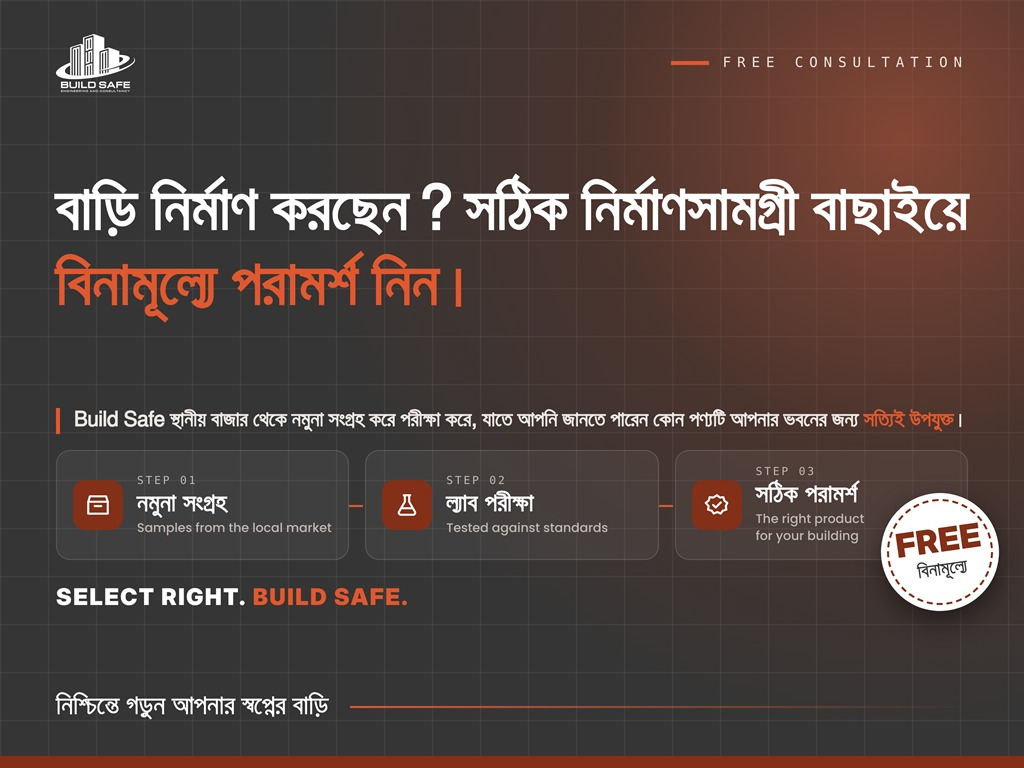
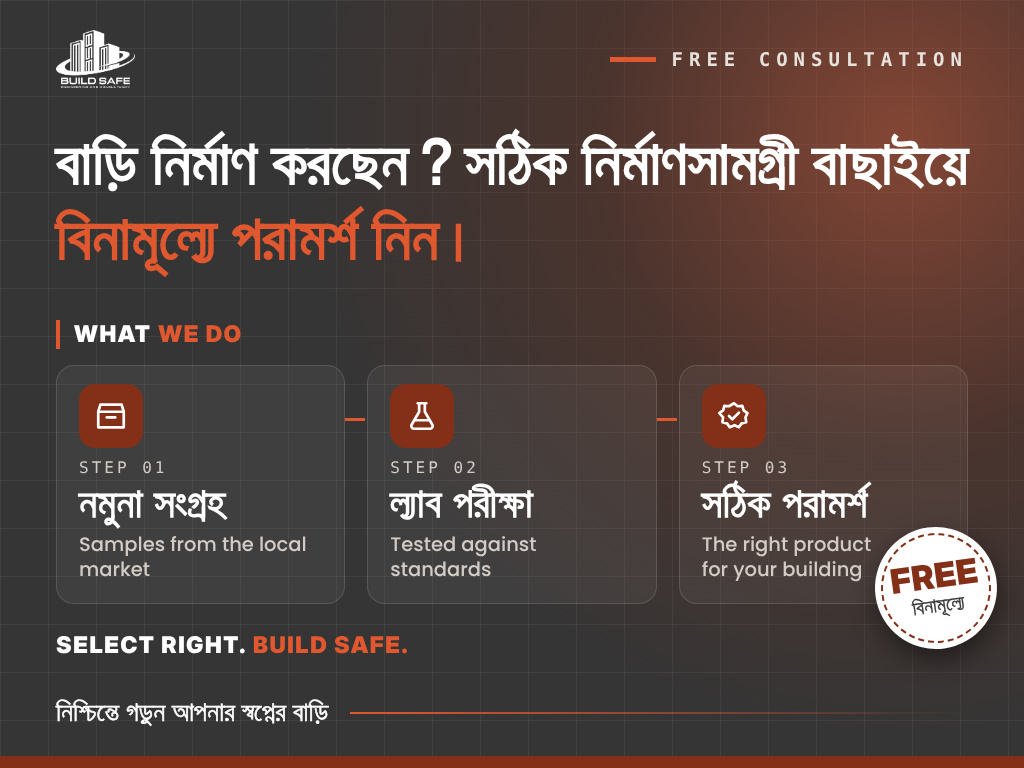
feat: add project gallery cards and viewer
* feat: add project gallery cards and viewer

* update hero image

* docs: record updated hero image verification

diff --git a/public/projects/concrete-mix-design-testing/index.html b/public/projects/concrete-mix-design-testing/index.html
@@ -228,14 +228,14 @@
           </dl>
                     <p class="proj-note"><span lang="bn">সাইটের কাজের ছবি।</span><span lang="en">Pictures from on-site work.</span></p>
                     <div class="proj-gallery">
-            <img src="/img/projects/concrete-testing/project-1.jpeg" alt="তাজা কংক্রিটের স্লাম্প পরিমাপ" data-alt-bn="তাজা কংক্রিটের স্লাম্প পরিমাপ" data-alt-en="Measuring the slump of fresh concrete" width="1024" height="768" loading="lazy" />
-            <img src="/img/projects/concrete-testing/project-2.jpeg" alt="কংক্রিটের উপকরণ মাপা ও মিশ্রণের ছবি" data-alt-bn="কংক্রিটের উপকরণ মাপা ও মিশ্রণের ছবি" data-alt-en="Weighing materials and mixing concrete" width="1024" height="768" loading="lazy" />
-            <img src="/img/projects/concrete-testing/project-3.jpeg" alt="কংক্রিট পরীক্ষার যন্ত্রপাতি" data-alt-bn="কংক্রিট পরীক্ষার যন্ত্রপাতি" data-alt-en="Concrete testing equipment" width="1024" height="768" loading="lazy" />
-            <img src="/img/projects/concrete-testing/project-4.jpeg" alt="সাইটে কংক্রিটের বিম পরীক্ষা" data-alt-bn="সাইটে কংক্রিটের বিম পরীক্ষা" data-alt-en="Inspecting a concrete beam on site" width="1024" height="768" loading="lazy" />
-            <img src="/img/projects/concrete-testing/project-5.jpeg" alt="সাইটে কংক্রিটের নমুনা প্রস্তুত" data-alt-bn="সাইটে কংক্রিটের নমুনা প্রস্তুত" data-alt-en="Preparing a concrete sample on site" width="1024" height="768" loading="lazy" />
-            <img src="/img/projects/concrete-testing/project-6.jpeg" alt="সাইটে কংক্রিটের কলাম পরীক্ষা" data-alt-bn="সাইটে কংক্রিটের কলাম পরীক্ষা" data-alt-en="Testing a concrete column on site" width="1024" height="768" loading="lazy" />
-            <img src="/img/projects/concrete-testing/project-7.jpeg" alt="চিহ্নিত কংক্রিট পরীক্ষার নমুনা" data-alt-bn="চিহ্নিত কংক্রিট পরীক্ষার নমুনা" data-alt-en="Labeled concrete test samples" width="1204" height="903" loading="lazy" />
-            <img src="/img/projects/concrete-testing/project-8.jpeg" alt="নির্মাণসাইটে কংক্রিটের নমুনা সংগ্রহ" data-alt-bn="নির্মাণসাইটে কংক্রিটের নমুনা সংগ্রহ" data-alt-en="Collecting a concrete sample at a construction site" width="1024" height="768" loading="lazy" />
+            <figure class="gallery-card"><a class="gallery-open" href="/img/projects/concrete-testing/project-1.jpeg"><img src="/img/projects/concrete-testing/project-1.jpeg" alt="তাজা কংক্রিটের স্লাম্প পরিমাপ" data-alt-bn="তাজা কংক্রিটের স্লাম্প পরিমাপ" data-alt-en="Measuring the slump of fresh concrete" width="1024" height="768" loading="lazy" /></a><figcaption class="gallery-details"><h2><span lang="bn">কংক্রিটের ওয়ার্কেবিলিটি বা স্লাম্প টেস্ট</span><span lang="en">Workability or Slump Test of Concrete</span></h2><p><strong><span lang="bn">প্রকল্পের ধরন:</span><span lang="en">Project Type:</span></strong> <span lang="bn">গবেষণা ও উন্নয়ন</span><span lang="en">Research and Development</span></p><p><strong><span lang="bn">প্রকল্পের অবস্থান:</span><span lang="en">Project Location:</span></strong> <span lang="bn">ইন-হাউস</span><span lang="en">In-House</span></p></figcaption></figure>
+            <figure class="gallery-card"><a class="gallery-open" href="/img/projects/concrete-testing/project-2.jpeg"><img src="/img/projects/concrete-testing/project-2.jpeg" alt="কংক্রিটের উপকরণ মাপা ও মিশ্রণের ছবি" data-alt-bn="কংক্রিটের উপকরণ মাপা ও মিশ্রণের ছবি" data-alt-en="Weighing materials and mixing concrete" width="1024" height="768" loading="lazy" /></a><figcaption class="gallery-details"><h2><span lang="bn">কংক্রিটের ট্রায়াল মিক্স</span><span lang="en">Trial Mix of Concrete</span></h2><p><strong><span lang="bn">প্রকল্পের ধরন:</span><span lang="en">Project Type:</span></strong> <span lang="bn">গবেষণা ও উন্নয়ন</span><span lang="en">Research and Development</span></p><p><strong><span lang="bn">প্রকল্পের অবস্থান:</span><span lang="en">Project Location:</span></strong> <span lang="bn">ইন-হাউস</span><span lang="en">In-House</span></p></figcaption></figure>
+            <figure class="gallery-card"><a class="gallery-open" href="/img/projects/concrete-testing/project-3.jpeg"><img src="/img/projects/concrete-testing/project-3.jpeg" alt="কংক্রিট পরীক্ষার যন্ত্রপাতি" data-alt-bn="কংক্রিট পরীক্ষার যন্ত্রপাতি" data-alt-en="Concrete testing equipment" width="1024" height="768" loading="lazy" /></a><figcaption class="gallery-details"><h2><span lang="bn">ইউপিভি দিয়ে কংক্রিটের গুণগত মান পরীক্ষা</span><span lang="en">Quality Test of Concrete with UPV</span></h2><p><strong><span lang="bn">পরীক্ষার যন্ত্র:</span><span lang="en">Test Instrument:</span></strong> <span lang="bn">আল্ট্রাসনিক পালস ভেলোসিটি (UPV)</span><span lang="en">Ultrasonic Pulse Velocity (UPV)</span></p><p><strong><span lang="bn">প্রকল্পের ধরন:</span><span lang="en">Project Type:</span></strong> <span lang="bn">গবেষণা ও উন্নয়ন</span><span lang="en">Research and Development</span></p><p><strong><span lang="bn">প্রকল্পের অবস্থান:</span><span lang="en">Project Location:</span></strong> <span lang="bn">ইন-হাউস</span><span lang="en">In-House</span></p></figcaption></figure>
+            <figure class="gallery-card"><a class="gallery-open" href="/img/projects/concrete-testing/project-4.jpeg"><img src="/img/projects/concrete-testing/project-4.jpeg" alt="সাইটে কংক্রিটের বিম পরীক্ষা" data-alt-bn="সাইটে কংক্রিটের বিম পরীক্ষা" data-alt-en="Inspecting a concrete beam on site" width="1024" height="768" loading="lazy" /></a><figcaption class="gallery-details"><h2><span lang="bn">কংক্রিটের কম্প্রেসিভ স্ট্রেংথ টেস্ট</span><span lang="en">Compressive Strength Test of Concrete</span></h2><p><strong><span lang="bn">পরীক্ষার যন্ত্র:</span><span lang="en">Test Instrument:</span></strong> <span lang="bn">রিবাউন্ড হ্যামার</span><span lang="en">Rebound Hammer</span></p><p><strong><span lang="bn">প্রকল্পের ধরন:</span><span lang="en">Project Type:</span></strong> <span lang="bn">(G+9) আবাসিক ভবন</span><span lang="en">(G+9) Residential Building</span></p><p><strong><span lang="bn">প্রকল্পের অবস্থান:</span><span lang="en">Project Location:</span></strong> <span lang="bn">জলসিঁড়ি, রূপগঞ্জ, নারায়ণগঞ্জ</span><span lang="en">Jalshiri, Rupgonj, Narayanganj</span></p></figcaption></figure>
+            <figure class="gallery-card"><a class="gallery-open" href="/img/projects/concrete-testing/project-5.jpeg"><img src="/img/projects/concrete-testing/project-5.jpeg" alt="সাইটে কংক্রিটের নমুনা প্রস্তুত" data-alt-bn="সাইটে কংক্রিটের নমুনা প্রস্তুত" data-alt-en="Preparing a concrete sample on site" width="1024" height="768" loading="lazy" /></a><figcaption class="gallery-details"><h2><span lang="bn">কংক্রিটের ওয়ার্কেবিলিটি ও সিলিন্ডার টেস্ট</span><span lang="en">Concrete Workability and Cylinder Test</span></h2><p><strong><span lang="bn">প্রকল্পের ধরন:</span><span lang="en">Project Type:</span></strong> <span lang="bn">(G+8) আবাসিক ভবন</span><span lang="en">(G+8) Residential Building</span></p><p><strong><span lang="bn">প্রকল্পের অবস্থান:</span><span lang="en">Project Location:</span></strong> <span lang="bn">আদাবর, মোহাম্মদপুর, ঢাকা</span><span lang="en">Adabor, Mohammadpur, Dhaka</span></p></figcaption></figure>
+            <figure class="gallery-card"><a class="gallery-open" href="/img/projects/concrete-testing/project-6.jpeg"><img src="/img/projects/concrete-testing/project-6.jpeg" alt="সাইটে কংক্রিটের কলাম পরীক্ষা" data-alt-bn="সাইটে কংক্রিটের কলাম পরীক্ষা" data-alt-en="Testing a concrete column on site" width="1024" height="768" loading="lazy" /></a><figcaption class="gallery-details"><h2><span lang="bn">কংক্রিটের কম্প্রেসিভ স্ট্রেংথ টেস্ট</span><span lang="en">Compressive Strength Test of Concrete</span></h2><p><strong><span lang="bn">পরীক্ষার যন্ত্র:</span><span lang="en">Test Instrument:</span></strong> <span lang="bn">রিবাউন্ড হ্যামার</span><span lang="en">Rebound Hammer</span></p><p><strong><span lang="bn">প্রকল্পের ধরন:</span><span lang="en">Project Type:</span></strong> <span lang="bn">(G+10) আবাসিক ভবন</span><span lang="en">(G+10) Residential Building</span></p><p><strong><span lang="bn">প্রকল্পের অবস্থান:</span><span lang="en">Project Location:</span></strong> <span lang="bn">বনশ্রী, ঢাকা</span><span lang="en">Banasree, Dhaka</span></p></figcaption></figure>
+            <figure class="gallery-card"><a class="gallery-open" href="/img/projects/concrete-testing/project-7.jpeg"><img src="/img/projects/concrete-testing/project-7.jpeg" alt="চিহ্নিত কংক্রিট পরীক্ষার নমুনা" data-alt-bn="চিহ্নিত কংক্রিট পরীক্ষার নমুনা" data-alt-en="Labeled concrete test samples" width="1204" height="903" loading="lazy" /></a><figcaption class="gallery-details"><h2><span lang="bn">কংক্রিট সিলিন্ডার টেস্ট</span><span lang="en">Concrete Cylinder Test</span></h2><p><strong><span lang="bn">প্রকল্পের ধরন:</span><span lang="en">Project Type:</span></strong> <span lang="bn">(G+8) আবাসিক ভবন</span><span lang="en">(G+8) Residential Building</span></p><p><strong><span lang="bn">প্রকল্পের অবস্থান:</span><span lang="en">Project Location:</span></strong> <span lang="bn">বসুন্ধরা আবাসিক এলাকা, ঢাকা</span><span lang="en">Bashundha R/A, Dhaka</span></p></figcaption></figure>
+            <figure class="gallery-card"><a class="gallery-open" href="/img/projects/concrete-testing/project-8.jpeg"><img src="/img/projects/concrete-testing/project-8.jpeg" alt="নির্মাণসাইটে কংক্রিটের নমুনা সংগ্রহ" data-alt-bn="নির্মাণসাইটে কংক্রিটের নমুনা সংগ্রহ" data-alt-en="Collecting a concrete sample at a construction site" width="1024" height="768" loading="lazy" /></a><figcaption class="gallery-details"><h2><span lang="bn">কংক্রিটের ওয়ার্কেবিলিটি ও সিলিন্ডার টেস্ট</span><span lang="en">Concrete Workability and Cylinder Test</span></h2><p><strong><span lang="bn">প্রকল্পের ধরন:</span><span lang="en">Project Type:</span></strong> <span lang="bn">(B+G+10) আবাসিক ভবন</span><span lang="en">(B+G+10) Residential Building</span></p><p><strong><span lang="bn">প্রকল্পের অবস্থান:</span><span lang="en">Project Location:</span></strong> <span lang="bn">কেরানীগঞ্জ মডেল থানা, ঢাকা</span><span lang="en">Keranigonj Model Thana, Dhaka</span></p></figcaption></figure>
           </div>
                     <div class="proj-actions">
             <a class="btn btn-ghost" href="/projects/"><span lang="bn">সব প্রকল্প</span><span lang="en">All projects</span></a>

diff --git a/public/projects/design-technical-support/index.html b/public/projects/design-technical-support/index.html
@@ -229,9 +229,9 @@
           </dl>
                     <p class="proj-note"><span lang="bn">চলমান কাজের ছবি।</span><span lang="en">Pictures from ongoing work.</span></p>
                     <div class="proj-gallery">
-            <img src="/img/projects/residential-design/project-1.jpeg" alt="একটি আবাসিক ভবনের তির্যক দিকের নকশাচিত্র" data-alt-bn="একটি আবাসিক ভবনের তির্যক দিকের নকশাচিত্র" data-alt-en="Angled rendering of a residential building" width="1024" height="768" loading="lazy" />
-            <img src="/img/projects/residential-design/project-2.jpeg" alt="একটি আবাসিক ভবনের সামনের দিকের নকশাচিত্র" data-alt-bn="একটি আবাসিক ভবনের সামনের দিকের নকশাচিত্র" data-alt-en="Front rendering of a residential building" width="1024" height="768" loading="lazy" />
-            <img src="/img/projects/residential-design/project-3.jpeg" alt="নির্মাণাধীন আবাসিক ভবন" data-alt-bn="নির্মাণাধীন আবাসিক ভবন" data-alt-en="Residential building under construction" width="1024" height="768" loading="lazy" />
+            <figure class="gallery-card"><a class="gallery-open" href="/img/projects/residential-design/project-1.jpeg"><img src="/img/projects/residential-design/project-1.jpeg" alt="একটি আবাসিক ভবনের তির্যক দিকের নকশাচিত্র" data-alt-bn="একটি আবাসিক ভবনের তির্যক দিকের নকশাচিত্র" data-alt-en="Angled rendering of a residential building" width="1024" height="768" loading="lazy" /></a><figcaption class="gallery-details"><h2><span lang="bn">৩ডি এক্সটেরিয়র ভিউ-১</span><span lang="en">3D Exterior View-1</span></h2><p><strong><span lang="bn">প্রকল্পের ধরন:</span><span lang="en">Project Type:</span></strong> <span lang="bn">(G+6) আবাসিক ভবন</span><span lang="en">(G+6) Residential Building</span></p><p><strong><span lang="bn">প্রকল্পের অবস্থান:</span><span lang="en">Project Location:</span></strong> <span lang="bn">নেভি কো-অপারেটিভ হাউজিং, বিরুলিয়া, সাভার, ঢাকা</span><span lang="en">NAVY Cooperative Housing, Birulia, Savar, Dhaka</span></p></figcaption></figure>
+            <figure class="gallery-card"><a class="gallery-open" href="/img/projects/residential-design/project-2.jpeg"><img src="/img/projects/residential-design/project-2.jpeg" alt="একটি আবাসিক ভবনের সামনের দিকের নকশাচিত্র" data-alt-bn="একটি আবাসিক ভবনের সামনের দিকের নকশাচিত্র" data-alt-en="Front rendering of a residential building" width="1024" height="768" loading="lazy" /></a><figcaption class="gallery-details"><h2><span lang="bn">৩ডি এক্সটেরিয়র ভিউ-২</span><span lang="en">3D Exterior View-2</span></h2><p><strong><span lang="bn">প্রকল্পের ধরন:</span><span lang="en">Project Type:</span></strong> <span lang="bn">(G+6) আবাসিক ভবন</span><span lang="en">(G+6) Residential Building</span></p><p><strong><span lang="bn">প্রকল্পের অবস্থান:</span><span lang="en">Project Location:</span></strong> <span lang="bn">নেভি কো-অপারেটিভ হাউজিং, বিরুলিয়া, সাভার, ঢাকা</span><span lang="en">NAVY Cooperative Housing, Birulia, Savar, Dhaka</span></p></figcaption></figure>
+            <figure class="gallery-card"><a class="gallery-open" href="/img/projects/residential-design/project-3.jpeg"><img src="/img/projects/residential-design/project-3.jpeg" alt="নির্মাণাধীন আবাসিক ভবন" data-alt-bn="নির্মাণাধীন আবাসিক ভবন" data-alt-en="Residential building under construction" width="1024" height="768" loading="lazy" /></a><figcaption class="gallery-details"><h2><span lang="bn">চলমান প্রকল্প</span><span lang="en">On-Going Project</span></h2><p><strong><span lang="bn">প্রকল্পের ধরন:</span><span lang="en">Project Type:</span></strong> <span lang="bn">(G+6) আবাসিক ভবন</span><span lang="en">(G+6) Residential Building</span></p><p><strong><span lang="bn">প্রকল্পের অবস্থান:</span><span lang="en">Project Location:</span></strong> <span lang="bn">নেভি কো-অপারেটিভ হাউজিং, বিরুলিয়া, সাভার, ঢাকা</span><span lang="en">NAVY Cooperative Housing, Birulia, Savar, Dhaka</span></p></figcaption></figure>
           </div>
                     <div class="proj-actions">
             <a class="btn btn-ghost" href="/projects/"><span lang="bn">সব প্রকল্প</span><span lang="en">All projects</span></a>

diff --git a/public/projects/solar-system-design-installation/index.html b/public/projects/solar-system-design-installation/index.html
@@ -228,8 +228,8 @@
           </dl>
                     <p class="proj-note"><span lang="bn">প্রস্তাবিত সিস্টেমের ছবি।</span><span lang="en">Pictures of proposed system.</span></p>
                     <div class="proj-gallery">
-            <img src="/img/projects/solar-installation/project-1.jpeg" alt="ভবনের ছাদে সোলার প্যানেলের নকশাচিত্র" data-alt-bn="ভবনের ছাদে সোলার প্যানেলের নকশাচিত্র" data-alt-en="Rendering of solar panels on a building rooftop" width="1024" height="768" loading="lazy" />
-            <img src="/img/projects/solar-installation/project-2.jpeg" alt="উপর থেকে ছাদের সোলার ব্যবস্থার নকশাচিত্র" data-alt-bn="উপর থেকে ছাদের সোলার ব্যবস্থার নকশাচিত্র" data-alt-en="Aerial rendering of a rooftop solar system" width="1024" height="768" loading="lazy" />
+            <figure class="gallery-card"><a class="gallery-open" href="/img/projects/solar-installation/project-1.jpeg"><img src="/img/projects/solar-installation/project-1.jpeg" alt="ভবনের ছাদে সোলার প্যানেলের নকশাচিত্র" data-alt-bn="ভবনের ছাদে সোলার প্যানেলের নকশাচিত্র" data-alt-en="Rendering of solar panels on a building rooftop" width="1024" height="768" loading="lazy" /></a><figcaption class="gallery-details"><h2><span lang="bn">প্রস্তাবিত ১০ কিলোওয়াট সোলার পাওয়ার সিস্টেমের ৩ডি ভিউ-১</span><span lang="en">3D View-1 of proposed 10 kW Solar Power System</span></h2><p><strong><span lang="bn">প্রকল্পের ধরন:</span><span lang="en">Project Type:</span></strong> <span lang="bn">(G+6) আবাসিক ভবন</span><span lang="en">(G+6) Residential Building</span></p><p><strong><span lang="bn">প্রকল্পের অবস্থান:</span><span lang="en">Project Location:</span></strong> <span lang="bn">নেভি কো-অপারেটিভ হাউজিং, বিরুলিয়া, সাভার, ঢাকা</span><span lang="en">NAVY Cooperative Housing, Birulia, Savar, Dhaka</span></p></figcaption></figure>
+            <figure class="gallery-card"><a class="gallery-open" href="/img/projects/solar-installation/project-2.jpeg"><img src="/img/projects/solar-installation/project-2.jpeg" alt="উপর থেকে ছাদের সোলার ব্যবস্থার নকশাচিত্র" data-alt-bn="উপর থেকে ছাদের সোলার ব্যবস্থার নকশাচিত্র" data-alt-en="Aerial rendering of a rooftop solar system" width="1024" height="768" loading="lazy" /></a><figcaption class="gallery-details"><h2><span lang="bn">প্রস্তাবিত ১০ কিলোওয়াট সোলার পাওয়ার সিস্টেমের ৩ডি ভিউ-২</span><span lang="en">3D View-2 of proposed 10 kW Solar Power System</span></h2><p><strong><span lang="bn">প্রকল্পের ধরন:</span><span lang="en">Project Type:</span></strong> <span lang="bn">(G+6) আবাসিক ভবন</span><span lang="en">(G+6) Residential Building</span></p><p><strong><span lang="bn">প্রকল্পের অবস্থান:</span><span lang="en">Project Location:</span></strong> <span lang="bn">নেভি কো-অপারেটিভ হাউজিং, বিরুলিয়া, সাভার, ঢাকা</span><span lang="en">NAVY Cooperative Housing, Birulia, Savar, Dhaka</span></p></figcaption></figure>
           </div>
                     <div class="proj-actions">
             <a class="btn btn-ghost" href="/projects/"><span lang="bn">সব প্রকল্প</span><span lang="en">All projects</span></a>

diff --git a/public/js/site.js b/public/js/site.js
@@ -40,6 +40,38 @@
     var open = nav.classList.toggle('open'); menuBtn.setAttribute('aria-expanded', open);
   });
 
+  /* Enhance the image links when native modal dialogs are available. */
+  var galleryLinks = document.querySelectorAll('.gallery-open');
+  if (galleryLinks.length && typeof HTMLDialogElement !== 'undefined' && HTMLDialogElement.prototype.showModal) {
+    var galleryDialog = document.createElement('dialog');
+    galleryDialog.className = 'gallery-dialog';
+    galleryDialog.setAttribute('aria-labelledby', 'gallery-dialog-title');
+    document.body.appendChild(galleryDialog);
+    var galleryTrigger = null;
+    galleryDialog.addEventListener('close', function () { if (galleryTrigger) galleryTrigger.focus(); });
+    galleryLinks.forEach(function (link) {
+      link.addEventListener('click', function (event) {
+        if (event.button !== 0 || event.metaKey || event.ctrlKey || event.shiftKey || event.altKey) return;
+        var image = link.querySelector('img').cloneNode(true);
+        image.removeAttribute('loading');
+        var details = document.createElement('div');
+        details.className = 'gallery-details';
+        link.nextElementSibling.childNodes.forEach(function (node) { details.appendChild(node.cloneNode(true)); });
+        details.querySelector('h2').id = 'gallery-dialog-title';
+        var media = document.createElement('div');
+        media.className = 'gallery-dialog-media';
+        var close = document.createElement('button');
+        close.type = 'button'; close.className = 'gallery-dialog-close';
+        close.innerHTML = '<span aria-hidden="true">×</span><span class="video-label" lang="bn">বন্ধ করুন</span><span class="video-label" lang="en">Close</span>';
+        close.addEventListener('click', function () { galleryDialog.close(); });
+        media.appendChild(image); media.appendChild(close);
+        galleryDialog.replaceChildren(media, details);
+        try { galleryDialog.showModal(); } catch (e) { return; }
+        event.preventDefault(); galleryTrigger = link; close.focus();
+      });
+    });
+  }
+
   /* Keep the preview as a direct link if scripting or the embedded player is unavailable. */
   var videoPreview = document.querySelector('.video-preview');
   var videoFallback = document.querySelector('.video-fallback');

diff --git a/public/css/site.css b/public/css/site.css
@@ -336,6 +336,19 @@ a.proj:hover { transform: translateY(-3px); border-color: var(--brand-text) }
 .proj-note { margin-bottom: 16px }
 .proj-gallery { display: grid; grid-template-columns: 1fr 1fr; gap: 16px; align-items: start }
 .proj-gallery img { display: block; width: 100%; height: auto; aspect-ratio: 4 / 3; object-fit: cover; border-radius: 18px; border: 1px solid var(--line) }
+.gallery-card { margin: 0; min-width: 0; background: var(--surface); border: 1px solid var(--line); border-radius: 18px; overflow: hidden; box-shadow: var(--frame-glow) }
+.gallery-open { display: block; border-radius: 18px 18px 0 0 }
+.proj-gallery .gallery-card img { border: 0; border-radius: 0; box-shadow: none }
+.gallery-details { padding: 16px; overflow-wrap: anywhere }
+.gallery-details h2 { font-size: 19px; font-weight: 600; margin: 0 0 8px }
+.gallery-details p { color: var(--ink-2); font-size: 15px; margin: 4px 0 0 }
+.gallery-details strong { color: var(--ink); font-weight: 600 }
+.gallery-dialog { width: min(90vw, 1000px); max-width: 90vw; max-height: 90vh; max-height: 90dvh; padding: 0; border: 1px solid var(--line); border-radius: 18px; color: var(--ink); background: var(--surface); box-shadow: var(--frame-glow); overflow: auto }
+.gallery-dialog::backdrop { background: rgba(0, 0, 0, .72); backdrop-filter: blur(5px) }
+.gallery-dialog-media { position: relative; display: grid; place-items: center; background: var(--bg) }
+.gallery-dialog-media img { display: block; max-width: 100%; max-height: 55vh; max-height: 55dvh; width: auto; height: auto; object-fit: contain; border-radius: 18px }
+.gallery-dialog-close { position: absolute; top: 10px; left: 10px; display: grid; place-items: center; width: 44px; height: 44px; border: 1px solid rgba(255, 255, 255, .65); border-radius: 50%; background: rgba(0, 0, 0, .8); color: #fff; font-size: 28px; cursor: pointer }
+.gallery-dialog-close:focus-visible { outline-offset: -4px }
 .proj-actions { display: flex; flex-wrap: wrap; gap: 10px; margin-top: 28px; margin-bottom: 28px }
 @media (max-width: 860px) { .proj-grid { grid-template-columns: repeat(2, 1fr) } .proj-gallery { grid-template-columns: 1fr } }
 @media (max-width: 520px) { .proj-grid { grid-template-columns: 1fr } a.proj:hover { transform: none } }

diff --git a/CLAUDE.md b/CLAUDE.md
@@ -4,7 +4,7 @@
 
 Project Name: Build Safe Engineering
 Description: Bilingual Bangla/English brochure for Build Safe Engineering & Consultancy. Static pages in `public/`, WhatsApp enquiry handoff.
-Current Status: The home frame is 4:3 and cycles `hero-1.jpeg` through `hero-5.jpeg`. Each picture fades with its own caption in a stable, wrapping caption area. The office picture is 1024×678, so the frame still crops a little of each side. Each project detail page describes that category, not one job. The picture lines are “Pictures from ongoing work.”, “Pictures from on-site work.”, and “Pictures of proposed system.” Detail pages keep 28px above and below the two buttons. Concrete, interior, assessment, and fire cards use 4:3 pictures. Design and solar cards use their first gallery images. Concrete, fire, design, and solar use their supplied 16:9 banners and 4:3 gallery images. `wrangler.toml` names the existing Cloudflare Worker `divine-dream-20ba` and serves `public/`. That Worker is connected to this GitHub repository on branch `main`. The first Git build starts when the next commit reaches `main`. Vercel Production follows `main` and stays the test site. The official address stays `https://buildsafe.com.bd`.
+Current Status: The home frame is 4:3 and cycles `hero-1.jpeg` through `hero-5.jpeg`. Each picture fades with its own caption in a stable, wrapping caption area. The office picture is 1024×678, so the frame still crops a little of each side. Each project detail page describes that category, not one job. The picture lines are “Pictures from ongoing work.”, “Pictures from on-site work.”, and “Pictures of proposed system.” Design, solar and concrete galleries have bilingual image cards and a shared native-dialog viewer, with direct image links when JavaScript or dialog support is unavailable. Detail pages keep 28px above and below the two buttons. Concrete, interior, assessment, and fire cards use 4:3 pictures. Design and solar cards use their first gallery images. Concrete, fire, design, and solar use their supplied 16:9 banners and 4:3 gallery images. `wrangler.toml` names the existing Cloudflare Worker `divine-dream-20ba` and serves `public/`. That Worker is connected to this GitHub repository on branch `main`. The first Git build starts when the next commit reaches `main`. Vercel Production follows `main` and stays the test site. The official address stays `https://buildsafe.com.bd`.
 Current Agile V Cycle: C1
 Current Gate: `GATE-0001` was superseded by later direction to build `public/`. See `.agile-v/STATE.md`.
 

diff --git a/.agile-v/VALIDATION_SUMMARY.md b/.agile-v/VALIDATION_SUMMARY.md
@@ -1,5 +1,15 @@
 # VALIDATION SUMMARY
 
+## 2026-11-07 — updated fourth hero image (`REQ-0029`)
+
+- The supplied image is 1024×768. Local Chrome checks at 390 and 1440px confirmed it loads as the fourth slide with its existing English consultation caption, without observed horizontal overflow or page errors. Production, physical devices and other browsers were not tested.
+
+## 2026-11-07 — project gallery cards and dialog (`REQ-0028`)
+
+- Local and independent Chrome checks covered all 13 images, supplied project details and bilingual card/dialog content at phone and desktop widths. Image fit, keyboard activation, Escape and Close, focus return, short-screen scrolling, no-JavaScript and unavailable or failing native-dialog fallbacks passed.
+- All 15 routes passed local HTTP, language-switching and horizontal-overflow checks at 390 and 1440px. `node --check public/js/site.js` and `git diff --check` passed.
+- Production, physical devices, other browsers and performance benchmarks were not tested. Existing layout overflow at 240px is outside this task. No repository lint, typecheck, test suite or build command exists.
+
 ## 2026-11-07 — About and FAQ copy (`REQ-0027`)
 
 - Independent checks compared the supplied About headings and all six paragraphs, both FAQ answers and Bangla FAQPage structured data exactly. Local Chrome checks covered both languages at 320, 390, 768 and 1440px without observed horizontal overflow; existing overflow at 240px remains outside this change.

diff --git a/.agile-v/REQUIREMENTS.md b/.agile-v/REQUIREMENTS.md
@@ -1,5 +1,13 @@
 # REQUIREMENTS
 
+## REQ-0029 Updated fourth hero image (approved 2026-11-07)
+
+Include the supplied replacement `hero-4.jpeg` in the existing home slideshow, preserving its fourth caption and slideshow behavior.
+
+## REQ-0028 Project gallery cards and dialog (approved 2026-11-07)
+
+Show the supplied bilingual titles, project types, locations and test instruments with the 13 images on the design, solar and concrete detail pages. Open each image in a responsive, accessible shared dialog with matching details and uncropped image; retain direct image links without JavaScript. Preserve the other project galleries.
+
 ## REQ-0027 About and FAQ copy (approved 2026-11-07)
 
 Replace the About introduction with the supplied bilingual Who We Are and What We Do headings and text. Replace the first FAQ answer with the supplied bilingual wording and keep its Bangla FAQPage structured data identical to the visible answer. Preserve the About video, remaining content and navigation.

diff --git a/.agile-v/STATE.md b/.agile-v/STATE.md
@@ -1,5 +1,9 @@
 # STATE
 
+## 2026-11-07 — project gallery cards commit preparation
+
+- `REQ-0028` and `REQ-0029`: see `TASKS.md` for status and `VALIDATION_SUMMARY.md` for evidence. Next: complete and verify the authorized PR workflow; verify deployment separately. Preserve the branch.
+
 ## 2026-11-07 — About and FAQ copy commit preparation
 
 - `REQ-0027`: see `TASKS.md` for status and `VALIDATION_SUMMARY.md` for evidence. Next: complete and verify the authorized PR workflow; verify deployment separately. Preserve the branch.

diff --git a/.agile-v/TASKS.md b/.agile-v/TASKS.md
@@ -1,5 +1,9 @@
 # TASKS
 
+## 2026-11-07 — project gallery cards and dialog
+
+- `REQ-0028` and `REQ-0029`: implemented and verified. The user authorized branch push, PR and squash merge subject to checks; verify remote merge and deployment separately.
+
 ## 2026-11-07 — About and FAQ copy
 
 - `REQ-0027`: implemented and independently verified. The user authorized branch push, PR and squash merge subject to checks; verify the remote merge and deployment separately.
